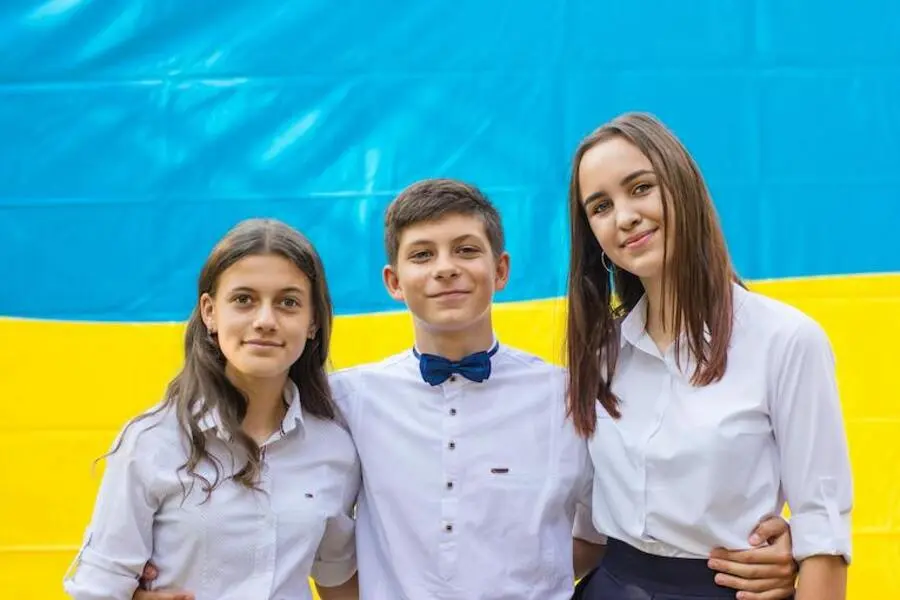
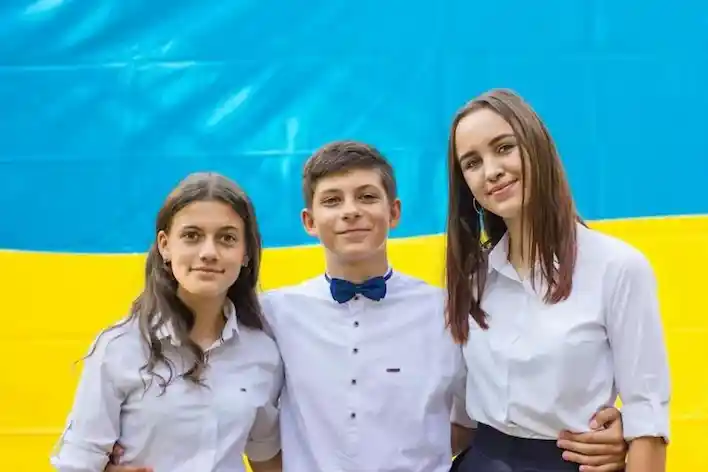
Delete unused images, resize and reduce images

Changed region(s): [[0.5282, 0.5636, 0.5593, 0.5932]]

diff --git a/index.html b/index.html
@@ -65,7 +65,7 @@
         <div class="row">
             <div class="col-12">
                 <h2 class="display-6 mb-3"><i>Excellence Through Learning</i></h2>
-                <img class="responsive" src="assets/images/index-background.webp" 
+                <img class="img-fluid" src="assets/images/index-background.webp" 
                 style="color:black" alt="The grounds of Beckminster Crest school showing a grand building and gardens" 
                 id="background"></div>
         </div>
@@ -237,35 +237,35 @@
                     </div>
                     <div class="carousel-inner">
                       <div class="carousel-item active">
-                        <img src="assets/images/carousel1.webp" class="d-block w-100"
+                        <img src="assets/images/carousel1.webp" class="d-block w-100 carousel-image"
                         style="color:black" alt="A photograph of Edinburgh Castle taken at a distance.">
                     </div>
                     <div class="carousel-item">
-                        <img src="assets/images/carousel2.webp" class="d-block w-100"
+                        <img src="assets/images/carousel2.webp" class="d-block w-100 carousel-image"
                         style="color:black" alt="Young female student stood outside taking a photograph.">
                     </div>
                     <div class="carousel-item">
-                        <img src="assets/images/carousel3.webp" class="d-block w-100"
+                        <img src="assets/images/carousel3.webp" class="d-block w-100 carousel-image"
                         style="color:black" alt="A photograph of three students embracing Culture Day, 2025.">
                     </div>
                     <div class="carousel-item">
-                        <img src="assets/images/carousel4.webp" class="d-block w-100"
+                        <img src="assets/images/carousel4.webp" class="d-block w-100 carousel-image"
                         style="color:black" alt="A young male student on a video call with his parents to show them his piano recital">
                     </div>
                     <div class="carousel-item">
-                        <img src="assets/images/carousel5.webp" class="d-block w-100"
+                        <img src="assets/images/carousel5.webp" class="d-block w-100 carousel-image"
                         style="color:black" alt="A photograph of teenagers relaxing after participating in a water sports activity.">
                     </div>
                     <div class="carousel-item">
-                        <img src="assets/images/carousel6.webp" class="d-block w-100"
+                        <img src="assets/images/carousel6.webp" class="d-block w-100 carousel-image"
                         style="color:black" alt="A spokeswoman giving an interactive session on engineering careers.">
                     </div>
                     <div class="carousel-item">
-                        <img src="assets/images/carousel7.webp" class="d-block w-100"
+                        <img src="assets/images/carousel7.webp" class="d-block w-100 carousel-image"
                         style="color:black" alt="Two students sat down playing chess during their enrichment time.">
                     </div>
                     <div class="carousel-item">
-                        <img src="assets/images/carousel8.webp" class="d-block w-100"
+                        <img src="assets/images/carousel8.webp" class="d-block w-100 carousel-image"
                         style="color:black" alt="A photograph of teenage students playing tennis.">
                     </div>
                 </div>

diff --git a/assets/css/style.css b/assets/css/style.css
@@ -41,11 +41,6 @@ h4 {
     margin-bottom: 25px;
 }
 
-.responsive {
-    width: 100%;
-    height: auto;
-}
-
 a {
     color: var(--primary-color);
     text-decoration: underline;
@@ -59,6 +54,27 @@ html { /* Assisted by W3schools.com */
 p { /* Formula imported from matthewjamestaylor.com */
     font-size: calc(15px + 0.390625vw);
     
+}
+
+/* Images */
+#background {
+    max-width: 1296px;
+    max-height: 831px;
+}
+
+#dean {
+    max-width: 354px;
+    max-height: 393px;
+}
+
+#about-image {
+    max-width: 337px;
+    max-height: 449px;
+}
+
+.carousel-image {
+    max-width: 780px;
+    max-height: 470px;
 }
 
 /* Buttons */
@@ -127,10 +143,6 @@ p { /* Formula imported from matthewjamestaylor.com */
 #dean {
     max-height: 400px;
     margin-bottom: 10px;
-}
-
-#about-image {
-    max-height: 450px;
 }
 
 .center {
